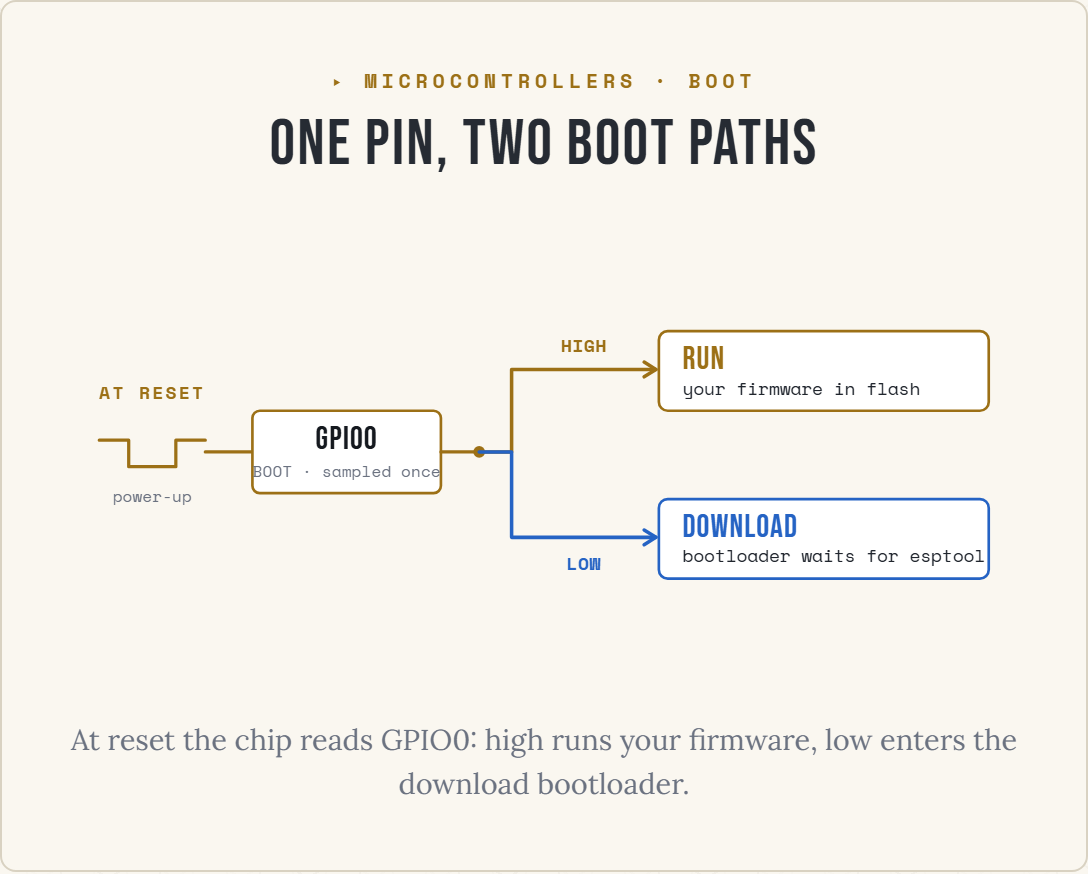
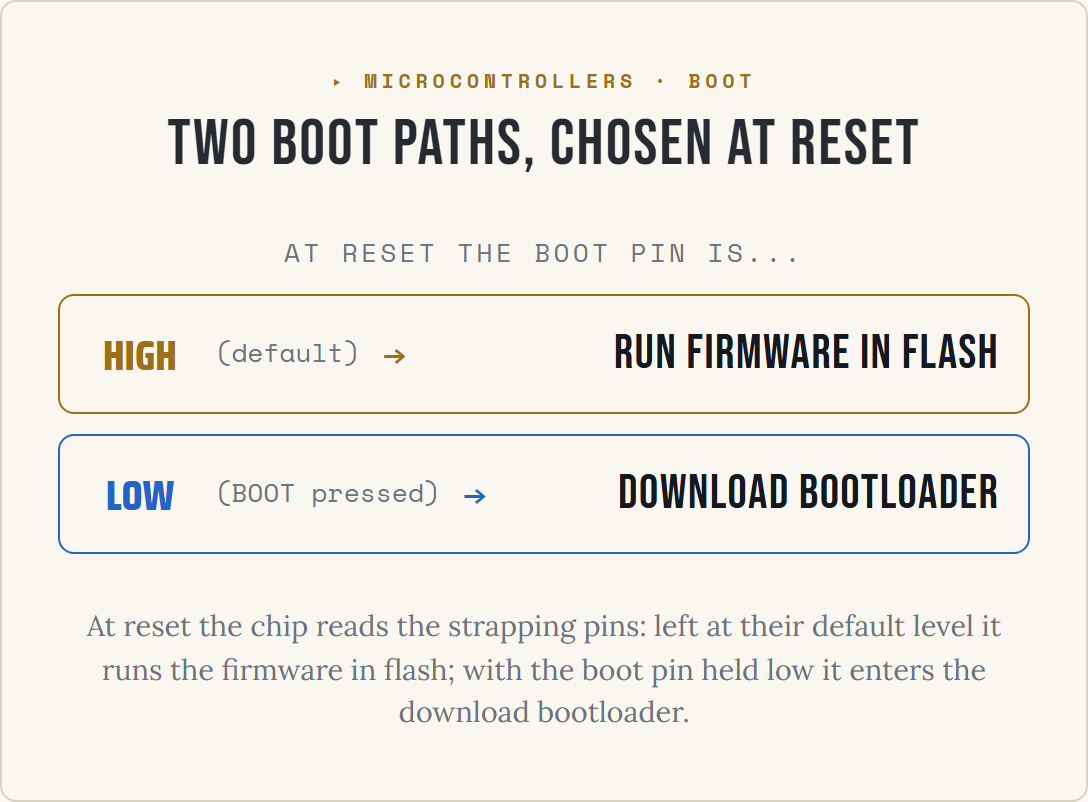
redo(diagrams): mcu-strapping-boot — the level-to-path table (5/11)
Rebuild to the house bar: the boot decision as a clean two-row table. HIGH
(default) -> RUN firmware in flash; LOW (BOOT pressed) -> DOWNLOAD bootloader.
Gold = the default run path, blue = the download path. HTML rows so the text
stays crisp and reflows on a phone. Saira level labels, landscape 1.41.

diff --git a/src/components/guide/diagrams/McuStrappingBoot.tsx b/src/components/guide/diagrams/McuStrappingBoot.tsx
@@ -1,111 +1,72 @@
-// Boot strapping: one pin, two boot paths (v2). Microcontrollers cluster.
+// Boot strapping: one pin, two boot paths (diagram-standards v2).
+// MCU cluster, diagram 5. Owner-picked S4: the level -> path table.
 //
-// Teaching point: at reset the ESP32 samples a strapping pin (GPIO0, the BOOT
-// pin). Left at its default HIGH it runs the firmware in flash; held LOW it
-// enters the download bootloader and waits for a flashing tool. A stray pull on
-// that pin picks the wrong path.
+// Teaching point (lesson 4): at reset the ESP32 samples its boot strapping pin to
+// pick how to boot. Left HIGH (its default) it runs the firmware already in flash;
+// held LOW (which is what pressing BOOT does) it enters the download bootloader and
+// waits to be flashed. Two rows: the reset-time level on the left, the path on the
+// right. Gold = the default run path, blue = the download path.
 //
-// Landscape desktop/print: reset → sample GPIO0 → branch to two outcome cards
-// (RUN = gold, DOWNLOAD = blue). REFLOWS on a phone to two stacked cards. Tokens.
+// HTML rows, so the text stays crisp and reflows on a phone. Token color, both
+// themes. Header + caption from the DiagramFrame.
 import { DiagramFrame } from "./DiagramFrame";
+
+const ROWS = [
+  { cls: "run", level: "HIGH", sub: "default", outcome: "RUN firmware in flash" },
+  { cls: "dl", level: "LOW", sub: "BOOT pressed", outcome: "DOWNLOAD bootloader" },
+];
 
 export function McuStrappingBoot({ caption }: { caption?: string }) {
   return (
     <DiagramFrame
       eyebrow="MICROCONTROLLERS · BOOT"
       tone="gold"
-      title="One pin, two boot paths"
-      ariaLabel="At reset the ESP32 samples its BOOT strapping pin, GPIO0, and branches to one of two outcomes. If the pin is high, its default, the chip runs the firmware already in flash. If the pin is held low, the chip enters the download bootloader and waits for a flashing tool like esptool. The pin is sampled once, at reset. A stray pull on the pin can force the wrong path and stop the board booting."
+      title="Two boot paths, chosen at reset"
+      ariaLabel="At reset the ESP32 samples its boot strapping pin to choose how to boot. If the pin is high, its default level, the chip runs the firmware already in flash. If the pin is held low, which is what pressing the BOOT button does, the chip enters the download bootloader and waits to be flashed."
       caption={caption}
-      defaultCaption="At reset the chip reads GPIO0: high runs your firmware, low enters the download bootloader."
+      defaultCaption="At reset the chip reads the strapping pins: left at their default level it runs the firmware in flash; with the boot pin held low it enters the download bootloader."
     >
       <style>{CSS}</style>
-
       <div className="sb">
-        {/* desktop / print */}
-        <svg className="sb-scene" viewBox="0 0 660 296" aria-hidden="true">
-          {/* reset event */}
-          <text className="sb-eye" x={64} y={112} textAnchor="middle">AT RESET</text>
-          <path className="sb-w" fill="none" d="M28,140 L48,140 L48,158 L80,158 L80,140 L100,140" />
-          <text className="sb-sub" x={64} y={182} textAnchor="middle">power-up</text>
-
-          {/* wire to the strapping pin */}
-          <line className="sb-w" x1={100} y1={148} x2={132} y2={148} />
-
-          {/* GPIO0 strapping pin */}
-          <rect className="sb-pin" x={132} y={120} width={128} height={56} rx={5} />
-          <text className="sb-pinn" x={196} y={146} textAnchor="middle">GPIO0</text>
-          <text className="sb-pins" x={196} y={165} textAnchor="middle">BOOT · sampled once</text>
-
-          {/* branch node */}
-          <circle className="sb-node" cx={286} cy={148} r={4} />
-          <line className="sb-w" x1={260} y1={148} x2={286} y2={148} />
-
-          {/* HIGH → RUN (gold, up) */}
-          <path className="sb-run" fill="none" d="M286,148 L308,148 L308,92 L406,92" />
-          <path className="sb-run" fill="none" d="M398,87 L406,92 L398,97" />
-          <text className="sb-cond sb-gold" x={357} y={80} textAnchor="middle">HIGH</text>
-          <rect className="sb-card sb-card-run" x={408} y={66} width={224} height={54} rx={6} />
-          <text className="sb-cn sb-gold" x={424} y={92}>RUN</text>
-          <text className="sb-cs" x={424} y={109}>your firmware in flash</text>
-
-          {/* LOW → DOWNLOAD (blue, down) */}
-          <path className="sb-dl" fill="none" d="M286,148 L308,148 L308,206 L406,206" />
-          <path className="sb-dl" fill="none" d="M398,201 L406,206 L398,211" />
-          <text className="sb-cond sb-blue" x={357} y={228} textAnchor="middle">LOW</text>
-          <rect className="sb-card sb-card-dl" x={408} y={180} width={224} height={54} rx={6} />
-          <text className="sb-cn sb-blue" x={424} y={206}>DOWNLOAD</text>
-          <text className="sb-cs" x={424} y={223}>bootloader waits for esptool</text>
-        </svg>
-
-        {/* phone reflow */}
-        <div className="sb-phone" aria-hidden="true">
-          <p className="sb-lead">At reset the chip reads <b>GPIO0</b>:</p>
-          <div className="sb-pcard sb-pgold">
-            <span className="sb-pcond">pin HIGH · default</span>
-            <span className="sb-pout">RUN — your firmware in flash</span>
+        <p className="sb-head">At reset the boot pin is...</p>
+        {ROWS.map((r) => (
+          <div key={r.cls} className={`sb-row sb-${r.cls}`}>
+            <span className="sb-state">{r.level}</span>
+            <span className="sb-sub">({r.sub})</span>
+            <span className="sb-arr">→</span>
+            <span className="sb-out">{r.outcome}</span>
           </div>
-          <div className="sb-pcard sb-pblue">
-            <span className="sb-pcond">pin LOW · BOOT held</span>
-            <span className="sb-pout">DOWNLOAD — bootloader waits for esptool</span>
-          </div>
-        </div>
+        ))}
       </div>
     </DiagramFrame>
   );
 }
 
 const CSS = `
-.sb{display:block;}
-.sb-scene{display:block;width:100%;height:auto;overflow:visible;}
-.sb-w{fill:none;stroke:var(--color-command-gold,#c8963e);stroke-width:2.2;stroke-linecap:round;stroke-linejoin:round;}
-.sb-run{fill:none;stroke:var(--color-command-gold,#c8963e);stroke-width:2.4;stroke-linecap:round;stroke-linejoin:round;}
-.sb-dl{fill:none;stroke:var(--color-signal-blue,#4a8fff);stroke-width:2.4;stroke-linecap:round;stroke-linejoin:round;}
-.sb-node{fill:var(--color-command-gold,#c8963e);}
-.sb-pin{fill:var(--color-navy-dark,#1a1a2e);stroke:var(--color-command-gold,#c8963e);stroke-width:1.8;}
-.sb-card{fill:var(--color-navy-dark,#1a1a2e);stroke-width:1.8;}
-.sb-card-run{stroke:var(--color-command-gold,#c8963e);}
-.sb-card-dl{stroke:var(--color-signal-blue,#4a8fff);}
-.sb-eye{font-family:var(--font-mono,"Space Mono",monospace);font-weight:700;font-size:12px;letter-spacing:.14em;fill:var(--color-command-gold,#c8963e);}
-.sb-sub{font-family:var(--font-mono,"Space Mono",monospace);font-weight:400;font-size:11px;fill:var(--color-muted,#aaa);}
-.sb-pinn{font-family:var(--font-display,"Bebas Neue",sans-serif);font-size:22px;letter-spacing:.03em;fill:var(--color-title,#f1ece0);}
-.sb-pins{font-family:var(--font-mono,"Space Mono",monospace);font-weight:400;font-size:11px;fill:var(--color-muted,#aaa);}
-.sb-cond{font-family:var(--font-mono,"Space Mono",monospace);font-weight:700;font-size:12px;letter-spacing:.04em;}
-.sb-cn{font-family:var(--font-display,"Bebas Neue",sans-serif);font-size:22px;letter-spacing:.03em;}
-.sb-cs{font-family:var(--font-mono,"Space Mono",monospace);font-weight:400;font-size:12px;fill:var(--color-text,#e8e8e8);}
-.sb-gold{fill:var(--color-command-gold,#c8963e);}
-.sb-blue{fill:var(--color-signal-blue,#4a8fff);}
+.sb{max-width:34rem;margin-inline:auto;}
+.sb-head{margin:0 0 .7rem;font-family:var(--font-mono,"Space Mono",monospace);font-size:clamp(.72rem,2vw,.8rem);
+  letter-spacing:.14em;text-transform:uppercase;color:var(--color-muted,#aaaaaa);}
+.sb-row{display:flex;align-items:center;gap:.75rem;flex-wrap:wrap;
+  border:1.6px solid var(--color-panel-border,#3a3f50);border-radius:8px;padding:.7rem .9rem;margin-bottom:.6rem;}
+.sb-run{border-color:var(--color-command-gold,#c8963e);}
+.sb-dl{border-color:var(--color-signal-blue,#4a8fff);}
+.sb-state{font-family:var(--font-numeral,"Saira Condensed",sans-serif);font-weight:700;
+  font-size:clamp(1.05rem,3vw,1.3rem);flex:0 0 auto;min-width:3.2rem;}
+.sb-run .sb-state{color:var(--color-command-gold,#c8963e);}
+.sb-dl .sb-state{color:var(--color-signal-blue,#4a8fff);}
+.sb-sub{font-family:var(--font-mono,"Space Mono",monospace);font-size:clamp(.72rem,1.9vw,.82rem);color:var(--color-muted,#aaaaaa);}
+.sb-arr{font-size:clamp(1rem,2.6vw,1.25rem);margin-left:auto;flex:0 0 auto;}
+.sb-run .sb-arr{color:var(--color-command-gold,#c8963e);}
+.sb-dl .sb-arr{color:var(--color-signal-blue,#4a8fff);}
+.sb-out{font-family:var(--font-display,"Bebas Neue",sans-serif);font-size:clamp(1.15rem,3.2vw,1.5rem);
+  letter-spacing:.03em;color:var(--color-title,#f1ece0);flex:1 1 auto;text-align:right;}
+@media (max-width:400px){ .sb-arr{margin-left:0;} .sb-out{text-align:left;flex-basis:100%;} }
 
-/* phone reflow */
-.sb-phone{display:none;}
-@media (max-width:520px){ .sb-scene{display:none;} .sb-phone{display:block;} }
-.sb-lead{margin:0 0 .6rem;font-family:var(--font-serif,"Lora",serif);font-size:.95rem;color:var(--color-text,#e8e8e8);}
-.sb-lead b{font-family:var(--font-mono,"Space Mono",monospace);font-weight:700;color:var(--color-title,#f1ece0);}
-.sb-pcard{border:1px solid;border-radius:6px;background:var(--color-navy-dark,#1a1a2e);padding:.55rem .7rem;margin-bottom:.55rem;display:flex;flex-direction:column;gap:.2rem;}
-.sb-pgold{border-color:var(--color-command-gold,#c8963e);}
-.sb-pblue{border-color:var(--color-signal-blue,#4a8fff);}
-.sb-pcond{font-family:var(--font-mono,"Space Mono",monospace);font-weight:700;font-size:.7rem;letter-spacing:.08em;text-transform:uppercase;color:var(--color-muted,#aaa);}
-.sb-pgold .sb-pcond{color:var(--color-command-gold,#c8963e);}
-.sb-pblue .sb-pcond{color:var(--color-signal-blue,#4a8fff);}
-.sb-pout{font-family:var(--font-mono,"Space Mono",monospace);font-size:.9rem;color:var(--color-text,#e8e8e8);}
+/* Tier-B reveal off the frame's armed/in contract (final state under reduced-motion). */
+.dgfrm.armed .sb-row{opacity:0;transform:translateY(6px);}
+.dgfrm.armed.in .sb-row{opacity:1;transform:none;transition:opacity .5s ease,transform .5s cubic-bezier(.2,.7,.2,1);}
+.dgfrm.armed.in .sb-row:nth-child(3){transition-delay:.12s;}
+@media (prefers-reduced-motion:reduce){
+  .dgfrm .sb-row{opacity:1!important;transform:none!important;transition:none!important;}
+}
 `;
